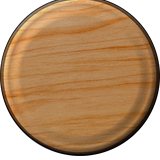
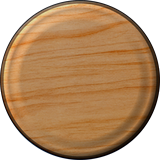
fix(art): 木质底圆顶部被裁修正——盘体不得位移（源 bbox 已占满）(WXG-T-547)

diff --git a/games/beads/design/ai-workflows/gen-circle-base-2state.py b/games/beads/design/ai-workflows/gen-circle-base-2state.py
@@ -9,7 +9,7 @@ from PIL import Image, ImageEnhance, ImageFilter
 BASE = ('games/beads/design/art/proposals/menu-3d-style-20261030/'
         'btn-topbar-layered-20261102/btn-base-2x-160.png')
 S = 160
-LIFT = 4            # 盘体上移，给投影留空间
+LIFT = 0            # ⛔ 不得上移：源底托 bbox 已占满 0..159，任何上移都会把盘顶切平（WXG-T-546 首版即此错）
 BLUR = 4            # 投影模糊半径
 SHADOW_ALPHA = 0.40  # 投影最深处不透明度
 PRESS_DARKEN = 0.90  # 按下态亮度系数
@@ -21,7 +21,7 @@ body.alpha_composite(src, (0, -LIFT))
 
 a = body.getchannel('A')
 sh = Image.new('L', (S, S), 0)
-sh.paste(a, (0, LIFT + 3))                      # 投影落在盘体下方
+sh.paste(a, (0, 5))                             # 投影只在下方溢出（与旧白盘同口径，溢出被画布裁掉）
 sh = sh.filter(ImageFilter.GaussianBlur(BLUR))
 shadow = Image.new('RGBA', (S, S), (24, 12, 4, 0))
 shadow.putalpha(sh.point(lambda v: int(v * SHADOW_ALPHA)))

diff --git a/production/TASKS.md b/production/TASKS.md
@@ -2,12 +2,13 @@
 
 > **格式（WXG-T-064 起）：标题制 + 详情分片。** 本表**只留标题**（名称列 ≤ 60 字符，由 `pnpm run check:tasks` 机械强制）；任务正文在 `production/TASKS-DETAIL.md` 的 `## WXG-T-0NN` 小节。**读取协议**：领号/看状态只读本表（≈ 2.2k tok）；要某任务详情时，从 `ctx/index.json` 取该小节的 `startLine`/`endLine`，`read_file(path, offset, limit)` **只读那一节**（中位 ≈ 290 tok），**不要整读详情文件**。归档时**行与小节成对搬走**。
 > 单号递增不回收。任何会话（WorkBuddy/Cursor/Qoder/CodeBuddy）开工前**先读本文件领号**，完成后回填状态——根治跨 IDE 撞号（教训：2026-09-12 CodeBuddy 独立会话撞用 T-013/T-014）。
-> **领号（机械校准锚，供 `pnpm run tasks:archive` 校准用）**：当前已分配至 **WXG-T-546**，下一可用号 **WXG-T-547**（**沿革已外移**：每个已分配号的批次摘要、冲突披露与 ADR 编号表 → `production/archive/TASKS-ledger-notes.md`，2026-10-28 由 WXG-T-482 原文照搬迁出；动机 = 该段占台账 39,909 tok 而 `tasks:archive` 只搬表行、对它零效力 ⇒ 台账撞 80k 门。⛔ 日常领号只认本行数值，**不要**去读那份沿革）。
+> **领号（机械校准锚，供 `pnpm run tasks:archive` 校准用）**：当前已分配至 **WXG-T-547**，下一可用号 **WXG-T-548**（**沿革已外移**：每个已分配号的批次摘要、冲突披露与 ADR 编号表 → `production/archive/TASKS-ledger-notes.md`，2026-10-28 由 WXG-T-482 原文照搬迁出；动机 = 该段占台账 39,909 tok 而 `tasks:archive` 只搬表行、对它零效力 ⇒ 台账撞 80k 门。⛔ 日常领号只认本行数值，**不要**去读那份沿革）。
 > 勘误（2026-09-13）：本注此前长期停在「已分配至 T-032」而表内已排到 T-035，曾致撞号（教训见 memory 记录）；WXG-T-040 归档落地后改为——**领号认本注（下一可用号），本注由 `tasks:archive` 校准**为「主表 ∪ 归档全局最大号 + 1」（归档会把老行移出主表，只看主表最大号必重号）；手工领号后请顺手核对本注（可运行 `pnpm run tasks:archive` 校准，0 行时不落盘）。
 > **用过号未自登主表清单**（K-137 只披露不代填）：222 / 257 / 280·281 / 282 / 283 / 285 / 286·287 / 289 （291 已由 WXG-T-292 代收口自登；203–207 属区间披露）——逐条正文与补账口径见 `production/archive/TASKS-ledger-notes.md` §A 末段。⛔ 仍不代填，待各会话自登。
 
 | Task ID | 名称 | 负责 | 状态 | 产出 |
 |---|---|---|---|---|
+| WXG-T-547 | 美术·木质底圆顶部被裁修正（T-546 回归） | 主理人(CodeBuddy)·美术轨 | ✅ **完成（2026-11-02）**（用户报「顶部被裁掉了一部分」⇒ 确诊：源底托 `btn-base-2x-160.png` 的 bbox 本来就占满 `0..159`，T-546 又把盘体上移 4px 想给投影腾地方 ⇒ 盘顶被切平，上边缘出现一条 56px 长的弦。**修法**：`LIFT` 4 → **0**（盘体原位不动），投影改为「alpha 下移 5px + 高斯模糊 4 + 40%」，只在下方溢出（与旧白盘版的溢出行为一致）。**四边核对**：修正后 pressed 四边像素数 = 源底托逐边相同（上 26 / 左 24 / 右 24 / 下 26），normal 仅底部因投影为 86。**验证**：harness 菜单页重截，四钮圆弧完整、外环闭合、无切边；`pnpm run build:cocos` release 档成功。**回写**：`asset-provenance.md` 该行做法描述改正，脚本 `gen-circle-base-2state.py` 的 `LIFT` 常量加警告注释防复发） | 见详情 |
 | WXG-T-546 | 美术·顶栏底圆换木质圆牌（两态派生） | 主理人(CodeBuddy)·美术轨 | ✅ **完成（2026-11-02）**（用户选「换木质底托」⇒ `ui_btn_circle_normal/pressed` 由「白圆盘 + 宽柔投影」换成 T-539 共用木牌 `btn-base-2x-160.png`，落 `final/assets/menu/` + `cocos/assets/textures/` 两处 4 个 PNG。**按下态重新定义**：木牌本身无内投影 ⇒ 不再沿用白盘版「投影紧贴变窄」，改「**去投影 + 亮度 ×0.90**」；常态则给木牌补柔和投影（盘体 alpha 下移 7px → 高斯模糊 4 → 40% 深棕黑）以立住 3D 感。**影响面已核**：`ui_btn_circle_*` 仅被顶栏四钮消费（另两枚闲置 `ui_icon_sound/mail` 无引用），无别处复用。**验证**：harness 菜单页截图（`?game=beads&meta=menu&hud=off`）四钮木牌上屏、投影与红点均正常；`pnpm run build:cocos` release 档成功（18.3s，v1.0.20→v1.0.21）。**生成史**：一次性脚本提副本入 `ai-workflows/gen-circle-base-2state.py`，`asset-provenance.md` 补录 2 件（三项齐备，本档少见可重跑件），`final/README.md` 台账标换代） | 见详情 |
 | WXG-T-545 | 美术·顶栏四钮图标接入运行时（替换线上彩色图标） | 主理人(CodeBuddy)·美术轨 | ✅ **完成（2026-11-02）**（用户选「维持本地版并接入」⇒ 四枚深棕线条图标替换线上彩色扁平版（灰齿轮/紫奖杯/橙日历/绿T恤），落 `final/assets/menu/ui_icon_{settings,rank,calendar,skin}.png` + `cocos/assets/textures/` 同名投放件，共 4 件 ×2 处 = 8 个 PNG。**视图层零改动**：`meta-menu.ts` 早已按 `textureId` 走 `builder.blit`，四枚 id 与两处宿主映射（Cocos `BITMAP_ASSETS` / harness `MENU_FILE`）均已登记，故只是换文件内容。**规格对齐**：新件 160²@2x 与 `MENU_TOPBAR_VISUAL_D = 80` 完全一致；最大半径 54.0–56.4px ＜ 白圆实体半径 59.0px（原图标更小、显空）。**验证**：`@wxgame/beads` 单测 120 文件 / 1422 通过；`pnpm run build:cocos` release 档成功（19.9s，v1.0.19→v1.0.20，Cocos 自动重算 meta 的 trim、uuid 未变）；Chrome headless 截菜单页（`?game=beads&meta=menu&hud=off`）四钮全部上屏、无一越界。**生成史**：一次性追踪脚本提副本入 `ai-workflows/trace-icon-lineart.py`，`asset-provenance.md` 补录 4 件（原图不可得、复现配方在 `p-btn-traced-v2.txt`） | 见详情 |
 | WXG-T-544 | 美术·顶栏三钮图标：云端 3.0 与 3.0-pro 横比 | 主理人(CodeBuddy)·美术轨 | ✅ **完成（2026-11-02）**（用户令「image 3.0 和 image 3.0 pro 各生成三个矢量图对比」⇒ 同提示词、同 seed 11、同 1024²，两模型各出榜单/签到/换肤三张，再走与本地版**完全相同**的追踪口径（`FIT_R` 35.0 / +10），落 `design/art/proposals/menu-3d-style-20261030/btn-topbar-traced-cloud-20261102/`（6 SVG + 各三档栅格 + 预合成件 + `compare-four-ways.png` + 两模型 320 大图 + `p-btn-traced-cloud.txt`）。**成本 1.29 元**（3.0 3×0.18 + pro 3×0.25，maas 通道；本轮本地 0 张、浪费 0；⛔ 不写 token-plan 台账）。**结论**：两模型**无可判别的质量差**——外框长边完全相同（57.5/57.5/62.5）、墨量差 ≤0.7 点、IoU 互有胜负（0.991/0.995/0.981 vs 0.991/0.989/0.985），pro 贵 39% 买不到质量，与矩阵 §3「无一构成改判依据」一致；**云端外框反比本地 2.1 小 8%**（57.5<62.5、62.5<67.5）⇒ 尺寸目标上本地版更优；云端唯一胜点＝描摹保真更高（0.995/0.991 vs 0.986）＋日历自带表头横线更贴语义。**建议维持本地 2.1 版**，若为保真度换云则选 3.0 不选 pro） | 见详情 |

diff --git a/production/qa/asset-provenance.md b/production/qa/asset-provenance.md
@@ -30,7 +30,7 @@
 | `ui_showcase_frame` 1088×1742 P(32) 188.4 KB | 云 `qwen-image-3.0` **i2i**：以旧窗框为参考，`size=1088*1742`、seed 88；后处理三步 = 裁到柜体 bbox → 四角色键转 alpha → **去光**（σ=90 低频模糊场相除，除同心色带；光晕改由引擎 `drawCaseLight` 画） | 处理脚本**未留档**（三步口径完整记在 WXG-T-522 §2，可按其重建）；抠件工具另见 `ai-workflows/cut-single-local.py` | ⚠ 参考原图 = 旧 `ui_showcase_frame.png`（1188×1892，用户 2026-10-14 供高清正本，已被本版覆盖；史证在 `final/README.md` 台账行与 `art/shots/`）；同链正本 `master-single-bg.png` **本批已入库** → `proposals/menu-3d-style-20261030/plate-cut-20261031/` | WXG-T-522 §2 |
 | `ui_btn_arrow_left` / `ui_btn_arrow_right` 129×129 P(256) 4.3 KB | 从整版 AI 稿切件（256 色量化）；`parts/` 八件里**仅此两件切净**（四缘各 1px 切点），其余六件 2026-10-31 用户裁定删除作废 | 切件脚本**未留档**（`parts/` 与 `sam2-parts/` 均已清空）；2026-11-01 复切走在册 `ai-workflows/cut-single-local.py --mode shape --shape disc,72,661,55` → 110×110，⛔ 未达 @2x（分辨率墙，见 `production/qa/menu-small-parts-cut-20261101.md`） | ⚠ 原图不可得：用户 2026-10-30 所供「整版木屋场景稿」（宽 720）**从未入库**，temp 副本已随清理删除 ⇒ 复现须重新取得原件，判据法见 WXG-T-517 §2（假透明双峰 ±5 + 5px 闭运算）。同批**抠件源稿**已入库：`proposals/menu-3d-style-20261030/menu-design-master-20261031.png`（752×1344 RGBA） | WXG-T-517 §2/§3 || `ui_icon_settings` / `ui_icon_rank` / `ui_icon_calendar` / `ui_icon_skin` 各 160×160 RGBA<br>（`final/assets/menu/` 美术真源 + `cocos/assets/textures/` 投放件两份同名；`.meta` 的 trim 由 Cocos 重算、uuid 未变） | **2026-11-02 替换**（原为彩色扁平图标，灰齿轮/紫奖杯/橙日历/绿T恤）：本地 ComfyUI `Qwen_image_2.1`（int8，25 步 / cfg 1.0 / euler-simple / 1024²，seed 11 或 222）出线稿底图 → **位图追踪转矢量**（crack-following → Chaikin(2) → RDP(0.9) → 按外接圆归一 35.0/100 → SVG 单 path `evenodd`）→ 栅格化 160² | `ai-workflows/trace-icon-lineart.py`（本批新入库，原 `temp/m8-trace.py` 原样搬运） | ⚠ 原图不可得：底图在 `temp/comfyui-out/m8-{rank-v2-s11,calendar-s11,skin-v2-s222}/`（`temp/` 不入库）。复现配方（逐字提示词 + seed + 参数 + 择优理由）见 `proposals/menu-3d-style-20261030/btn-topbar-traced-v2-20261102/p-btn-traced-v2.txt`；同族云端横比对照片见 `…/btn-topbar-traced-cloud-20261102/p-btn-traced-cloud.txt` | WXG-T-541/542/543（出图与定稿）+ WXG-T-545（接入运行时） |
 
-| `ui_btn_circle_normal` / `ui_btn_circle_pressed` 各 160×160 RGBA<br>（`final/assets/menu/` 美术真源 + `cocos/assets/textures/` 投放件两份同名） | **2026-11-02 替换**（原为「白圆盘 + 宽柔投影」，按下 = 投影变窄）：底托取 T-539 共用木牌 `btn-base-2x-160.png`。常态 = 盘体上移 4px 后叠投影（盘体 alpha 下移 7px → 高斯模糊 4 → 40% 深棕黑）；按下 = 同盘体亮度 ×0.90、**无投影**（木牌本身无内投影，故不再沿用白盘版「投影紧贴变窄」的口径） | `ai-workflows/gen-circle-base-2state.py`（本批新入库，原 `temp/m10-base-gen.py` 原样搬运） | ✅ 底托原图在册：`proposals/menu-3d-style-20261030/btn-topbar-layered-20261102/btn-base-2x-160.png`（来源见 T-539 批次说明；该件本身是从模型出图抽取的共用底托） | WXG-T-539（底托）+ WXG-T-546（接入运行时） |
+| `ui_btn_circle_normal` / `ui_btn_circle_pressed` 各 160×160 RGBA<br>（`final/assets/menu/` 美术真源 + `cocos/assets/textures/` 投放件两份同名） | **2026-11-02 替换**（原为「白圆盘 + 宽柔投影」，按下 = 投影变窄）：底托取 T-539 共用木牌 `btn-base-2x-160.png`。常态 = 盘体**原位不动**（⛔ 源底托 bbox 已占满 0..159，任何上移都会把盘顶切平——T-546 首版即此错，T-547 修正）+ 叠投影（盘体 alpha 下移 5px → 高斯模糊 4 → 40% 深棕黑，只在下方溢出、与旧白盘同口径）；按下 = 同盘体亮度 ×0.90、**无投影**（木牌本身无内投影，故不再沿用白盘版「投影紧贴变窄」的口径） | `ai-workflows/gen-circle-base-2state.py`（本批新入库，原 `temp/m10-base-gen.py` 原样搬运） | ✅ 底托原图在册：`proposals/menu-3d-style-20261030/btn-topbar-layered-20261102/btn-base-2x-160.png`（来源见 T-539 批次说明；该件本身是从模型出图抽取的共用底托） | WXG-T-539（底托）+ WXG-T-546（接入运行时） |
 
 ### 累计状态
 

diff --git a/ctx/hot-files.md b/ctx/hot-files.md
@@ -25,9 +25,9 @@
 
 §wechatgame 项目长期笔记=1+81 · §日志蒸馏规程（R2 · WXG-T-0…=7+6 · §项目约定=13+22 · §常用脚本=35+11 · §SubAgent=46+4 · §Rules=50+3 · §Hooks=53+7 · §Headless / CI=60+8 · §已知限制=68+14
 
-## `production/TASKS.md` — 152 行 / 33907 tok / 实测读 4 次
+## `production/TASKS.md` — 153 行 / 34210 tok / 实测读 4 次
 
-§WXG 任务台账（SSOT）=1+153 · §待排（backlog，无号，立项时领取…=125+29
+§WXG 任务台账（SSOT）=1+154 · §待排（backlog，无号，立项时领取…=126+29
 
 ## `production/qa/beads/test-cases.md` — 63 行 / 3722 tok / 实测读 15 次
 
@@ -103,10 +103,10 @@
 §knowledge/ — 工作室知识库…=1+319 · §1 读取协议（开发前期）=7+10 · §2 写入协议（任务收尾）=17+28 · §3 文件分工=45+10 · §4 维护=55+12 · §5 生命周期（访问记账 → 归档 → …=67+41 · §6 活跃条目（自动生成）=108+212
 > 本表只列 7 / 11 节：其余 4 节 → ctx/index.json（按 path 取 `sections[].anchor` / `startLine`，勿整读）。
 
-## `production/TASKS-DETAIL.md` — 6540 行 / 189110 tok
+## `production/TASKS-DETAIL.md` — 6579 行 / 189697 tok
 
-§WXG 任务台账 · 详情（标题制正文…=1+6541 · §WXG-T-536=5877+39 · §WXG-T-535=5916+47 · §WXG-T-537=5963+57 · §WXG-T-538=6020+62 · §WXG-T-539=6082+52 · §WXG-T-540=6134+69 · §WXG-T-541=6203+73 · §WXG-T-542=6276+57 · §WXG-T-543=6333+64 · §WXG-T-544=6397+48 · §WXG-T-545=6445+58 · §WXG-T-546=6503+39
-> 本表只列 13 / 667 节：其余 654 节 → ctx/index.json（按 path 取 `sections[].anchor` / `startLine`，勿整读）。
+§WXG 任务台账 · 详情（标题制正文…=1+6580 · §WXG-T-536=5877+39 · §WXG-T-537=5963+57 · §WXG-T-538=6020+62 · §WXG-T-539=6082+52 · §WXG-T-540=6134+69 · §WXG-T-541=6203+73 · §WXG-T-542=6276+57 · §WXG-T-543=6333+64 · §WXG-T-544=6397+48 · §WXG-T-545=6445+58 · §WXG-T-546=6503+39 · §WXG-T-547=6542+39
+> 本表只列 13 / 673 节：其余 660 节 → ctx/index.json（按 path 取 `sections[].anchor` / `startLine`，勿整读）。
 
 ## `games/breakout/design/concept.md` — 143 行 / 3113 tok / 实测读 217 次
 

diff --git a/ctx/BUDGET.md b/ctx/BUDGET.md
@@ -22,7 +22,7 @@
 
 | # | 文件 | tokens | 行数 | tier |
 |---:|---|---:|---:|:--:|
-| 1 | `production/TASKS-DETAIL.md` | 189110 | 6540 | normal |
+| 1 | `production/TASKS-DETAIL.md` | 189697 | 6579 | normal |
 | 2 | `games/beads/design/gdd/powerups-v2.md` | 144877 | 2328 | normal |
 | 3 | `games/beads/design/art/specs/assets-spec.md` | 121738 | 2109 | normal |
 | 4 | `production/qa/beads/g4-regression-report.md` | 86807 | 2201 | normal |
@@ -36,7 +36,7 @@
 | 12 | `games/beads/design/art/specs/art-bible.md` | 38368 | 530 | normal |
 | 13 | `games/beads/design/art/proposals/ui-style-redesign/menu-architecture.md` | 37618 | 978 | normal |
 | 14 | `games/beads/design/art/specs/accessibility.md` | 37140 | 201 | normal |
-| 15 | `production/TASKS.md` | 33907 | 152 | hot |
+| 15 | `production/TASKS.md` | 34210 | 153 | hot |
 | 16 | `memory/2026-10-04.md` | 28255 | 930 | normal |
 | 17 | `games/beads/design/gdd/save-progress.md` | 26135 | 305 | normal |
 | 18 | `games/beads/design/proposals/star-economy-and-retention.md` | 22195 | 763 | normal |
